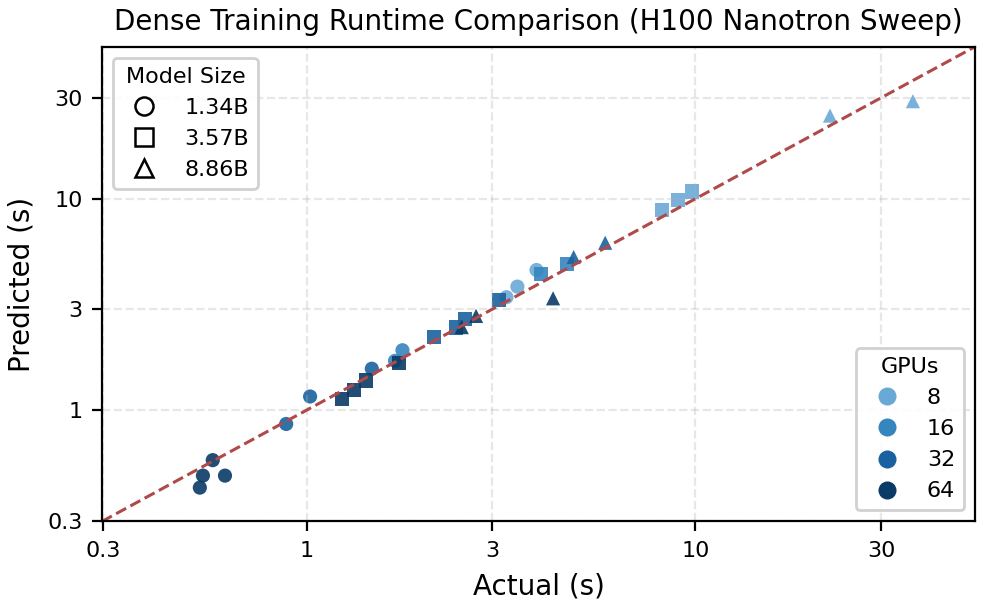
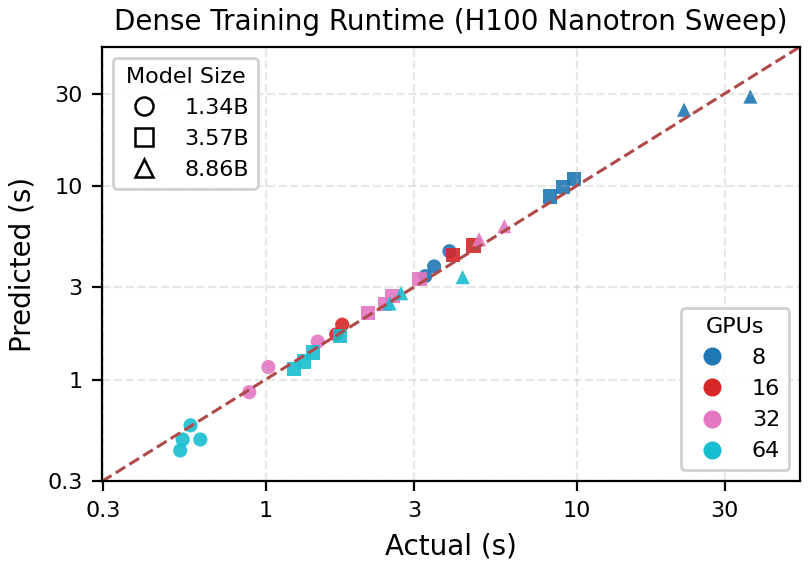
H100 parity figure: tab10 GPU colors and MPT figure geometry

diff --git a/validation_scripts/plot_h100_train_comparison.py b/validation_scripts/plot_h100_train_comparison.py
@@ -35,6 +35,7 @@ import sys
 from pathlib import Path
 
 import matplotlib
+import numpy as np
 import pandas as pd
 
 matplotlib.use("Agg")
@@ -66,11 +67,8 @@ OUT = SCRIPT_DIR.parent / "output" / "validation" / "paper" / "h100_train_compar
 
 # Same marker vocabulary and ordering as the MPT parity figure.
 MARKERS = ["o", "s", "^", "D", "v", "P", "X", "<", ">"]
-# GPU count is an ordinal magnitude, so its colors are a single-hue ramp
-# (light -> dark) rather than a categorical cycle: monotone in lightness,
-# adjacent dL >= 0.06, light end clears the surface, and unlike tab10 it
-# stays separable under protanopia.
-GPU_RAMP = ["#6aa9d6", "#3585bf", "#19629f", "#0a3a66"]
+# GPU-count colors are sampled from tab10 exactly as the MPT parity figure
+# samples its SeqLen colors, so the two figures read as a matched pair.
 PARITY_LINE = "#b04a4a"  # muted red dashed y=x, as in the MPT figure
 # Log-axis padding, in decades, applied to both ends of the shared range.
 # 0.16 dec (a factor of 1.45) is the smallest pad that keeps the 0.3 s tick
@@ -152,10 +150,11 @@ def main() -> None:
     sizes = sorted(keep["size"].unique())
     gpu_counts = sorted(keep["gpus"].unique())
     size_to_marker = {s: MARKERS[i % len(MARKERS)] for i, s in enumerate(sizes)}
-    gpu_to_color = {g: GPU_RAMP[i % len(GPU_RAMP)] for i, g in enumerate(gpu_counts)}
+    _gpu_colors = plt.cm.tab10(np.linspace(0.0, 1.0, max(1, len(gpu_counts))))
+    gpu_to_color = {g: _gpu_colors[i] for i, g in enumerate(gpu_counts)}
 
     with plt.rc_context(ieee_rc_params()):
-        fig, ax = plt.subplots(figsize=(IEEE_HALF_COLUMN_WIDTH_IN * 1.45, 3.2))
+        fig, ax = plt.subplots(figsize=(IEEE_HALF_COLUMN_WIDTH_IN * 1.2, 3.0))
         for size in sizes:
             for gpus in gpu_counts:
                 sub = keep[(keep["size"] == size) & (keep["gpus"] == gpus)]
@@ -188,7 +187,7 @@ def main() -> None:
             # No minor ticks: keeps the gridline density identical to the
             # linear version instead of drawing 8 faint lines per decade.
             axis.set_minor_locator(NullLocator())
-        ax.set_title("Dense Training Runtime Comparison (H100 Nanotron Sweep)",
+        ax.set_title("Dense Training Runtime (H100 Nanotron Sweep)",
                      fontsize=IEEE_TITLE_SIZE_PT)
         ax.set_xlabel("Actual (s)", fontsize=IEEE_AXIS_TITLE_SIZE_PT)
         ax.set_ylabel("Predicted (s)", fontsize=IEEE_AXIS_TITLE_SIZE_PT)
